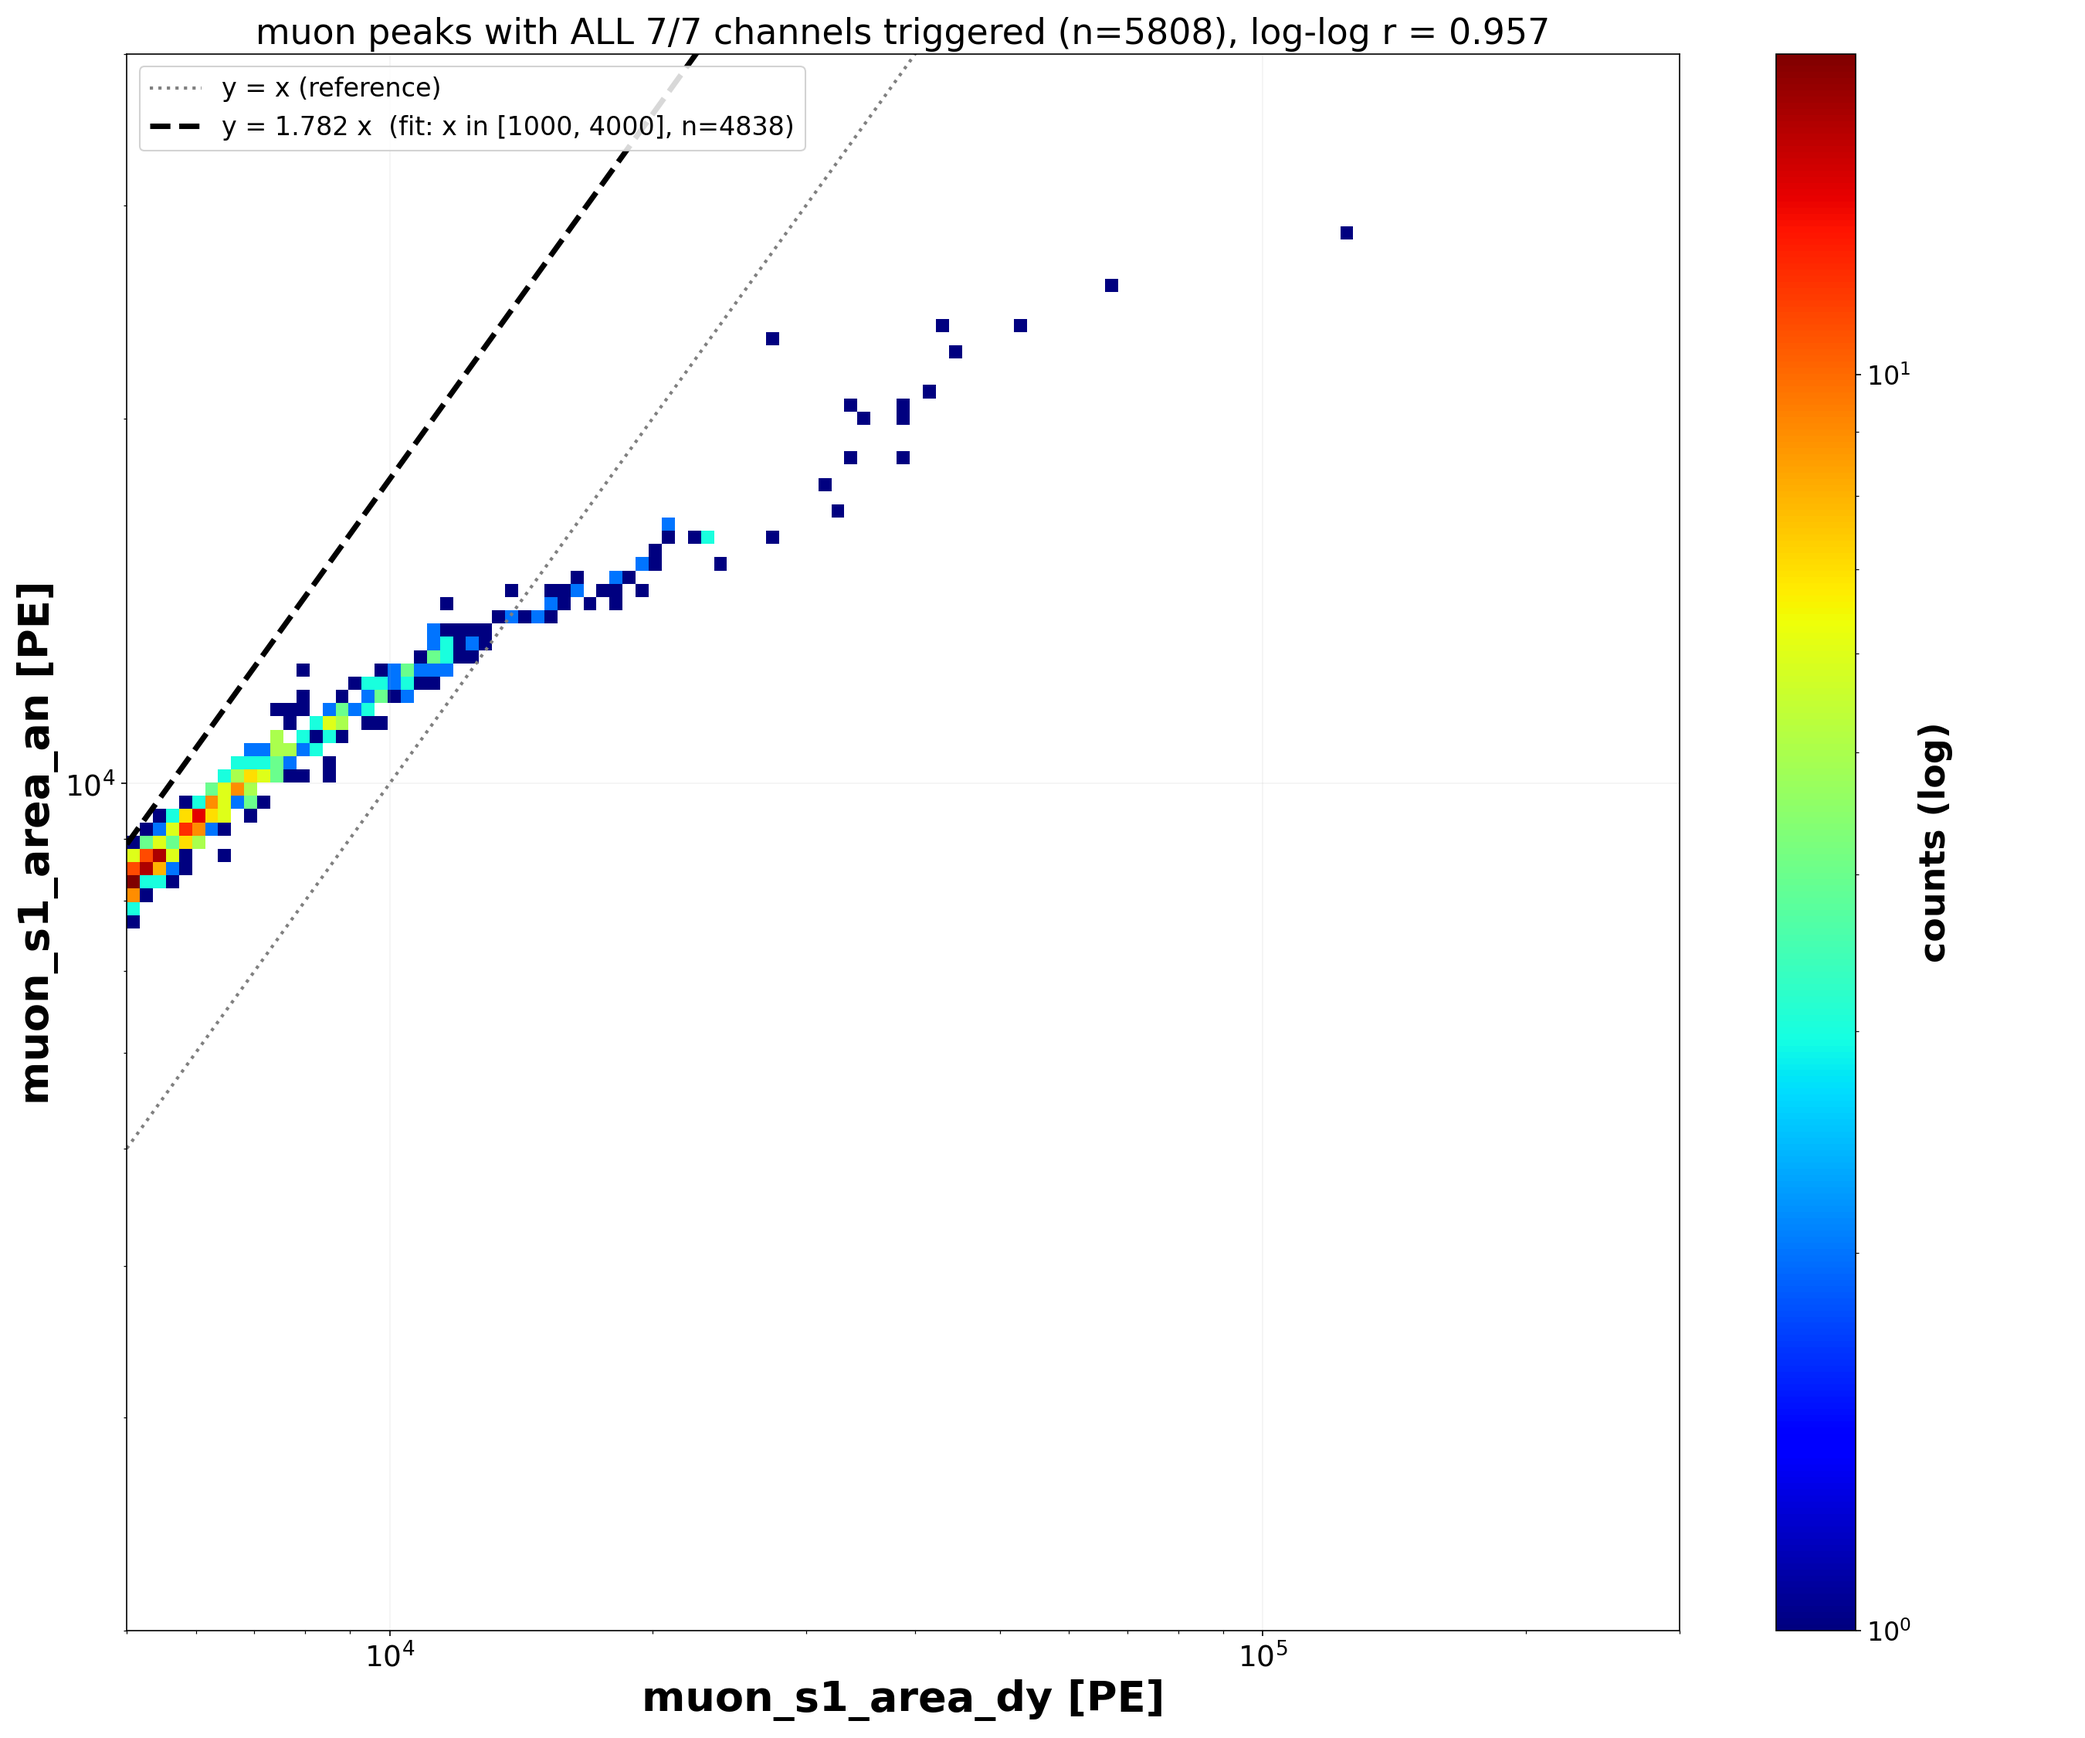
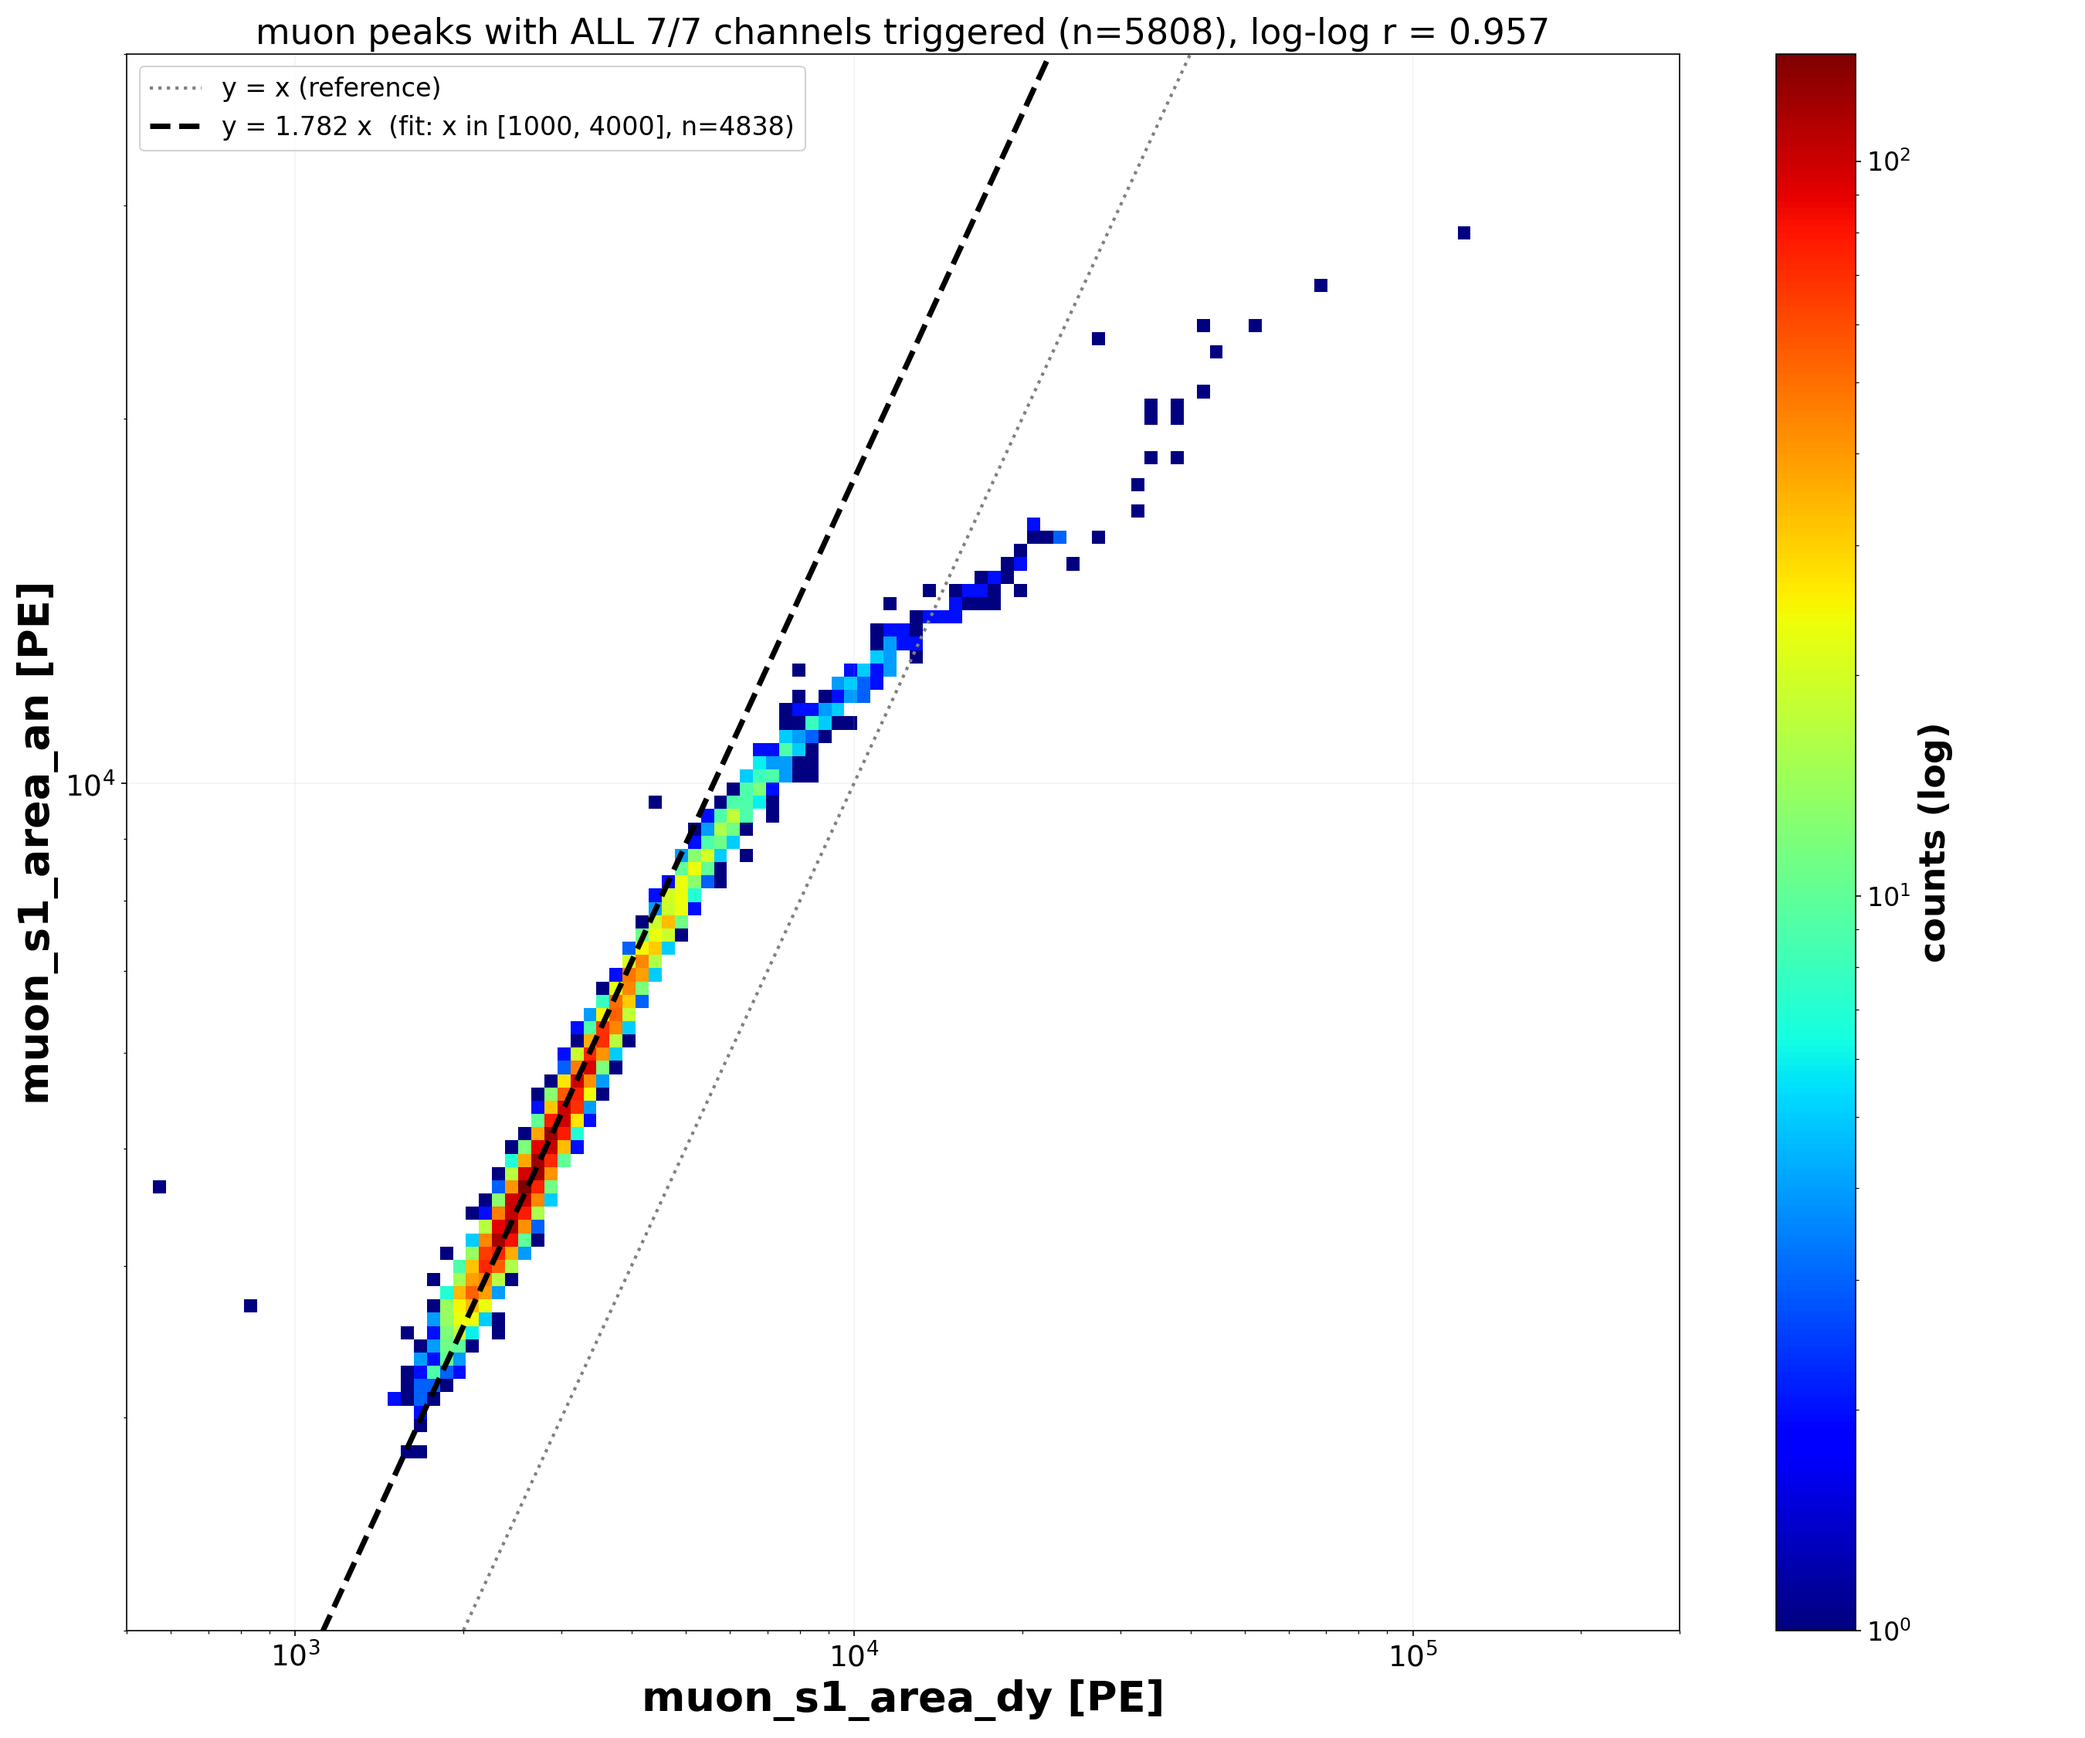
Set x range from 5e2 PE on the swapped 2D histogram

diff --git a/scripts/plot_muon_7ch_s1area_2d.py b/scripts/plot_muon_7ch_s1area_2d.py
@@ -30,7 +30,7 @@ m = df.merge(r[(r.n_an_pulse == 7) & (r.n_dy_pulse == 7)][["run_id", "peaks_id"]
 v = m[(m.muon_s1_area_an > 0) & (m.muon_s1_area_dy > 0)]
 print(f"7ch/7ch muon peaks={len(m)}  plotted={len(v)}")
 
-xlo, xhi = 5e3, 3e5
+xlo, xhi = 5e2, 3e5
 ylo, yhi = 2e3, 4e4
 fig, ax = plt.subplots(figsize=(18, 15))
 hb = ax.hist2d(v.muon_s1_area_dy, v.muon_s1_area_an,
